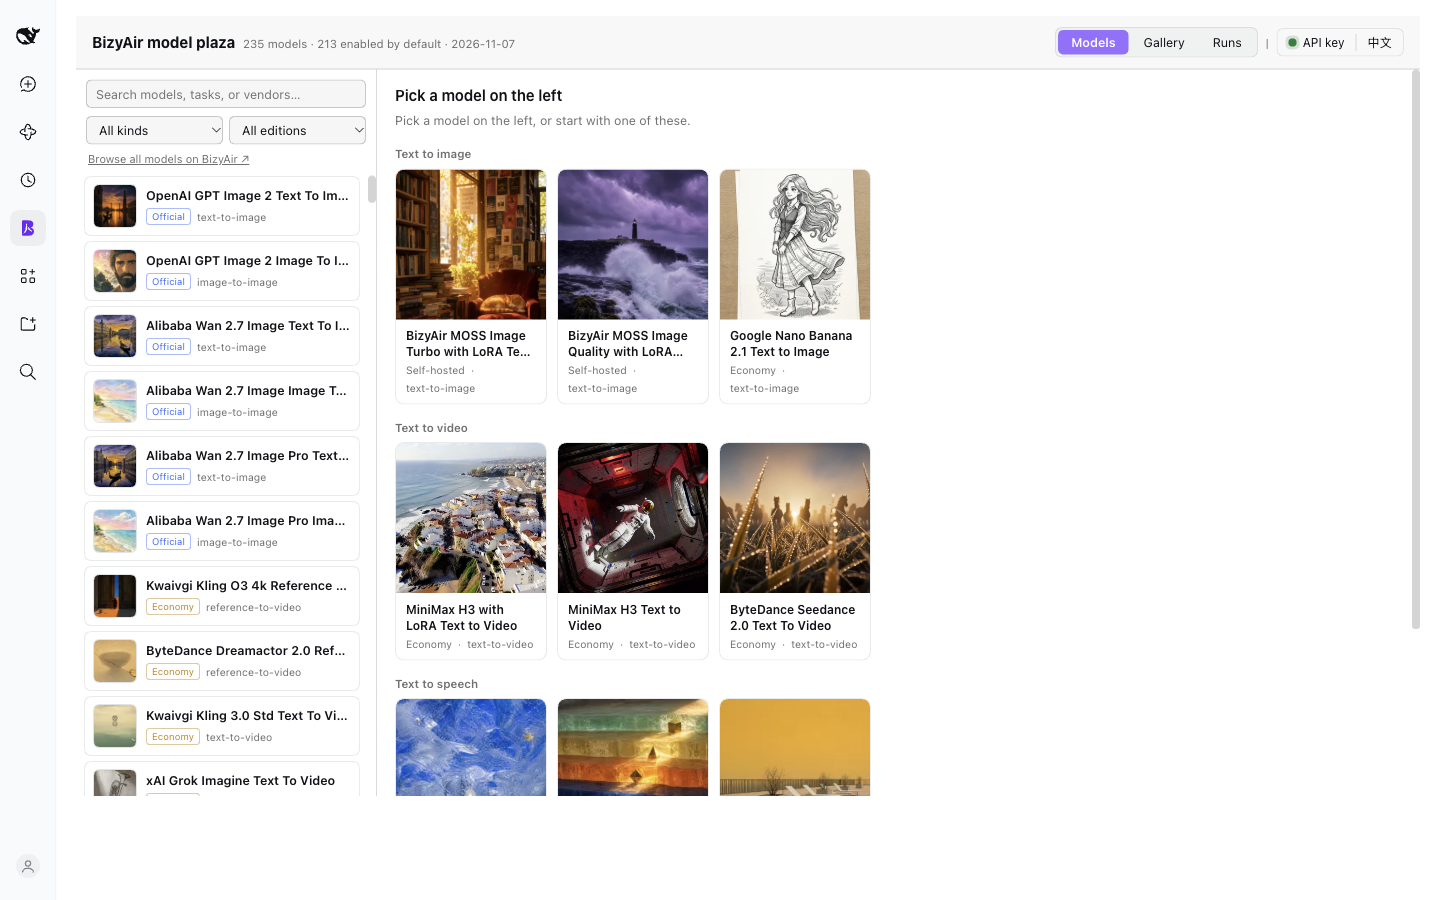
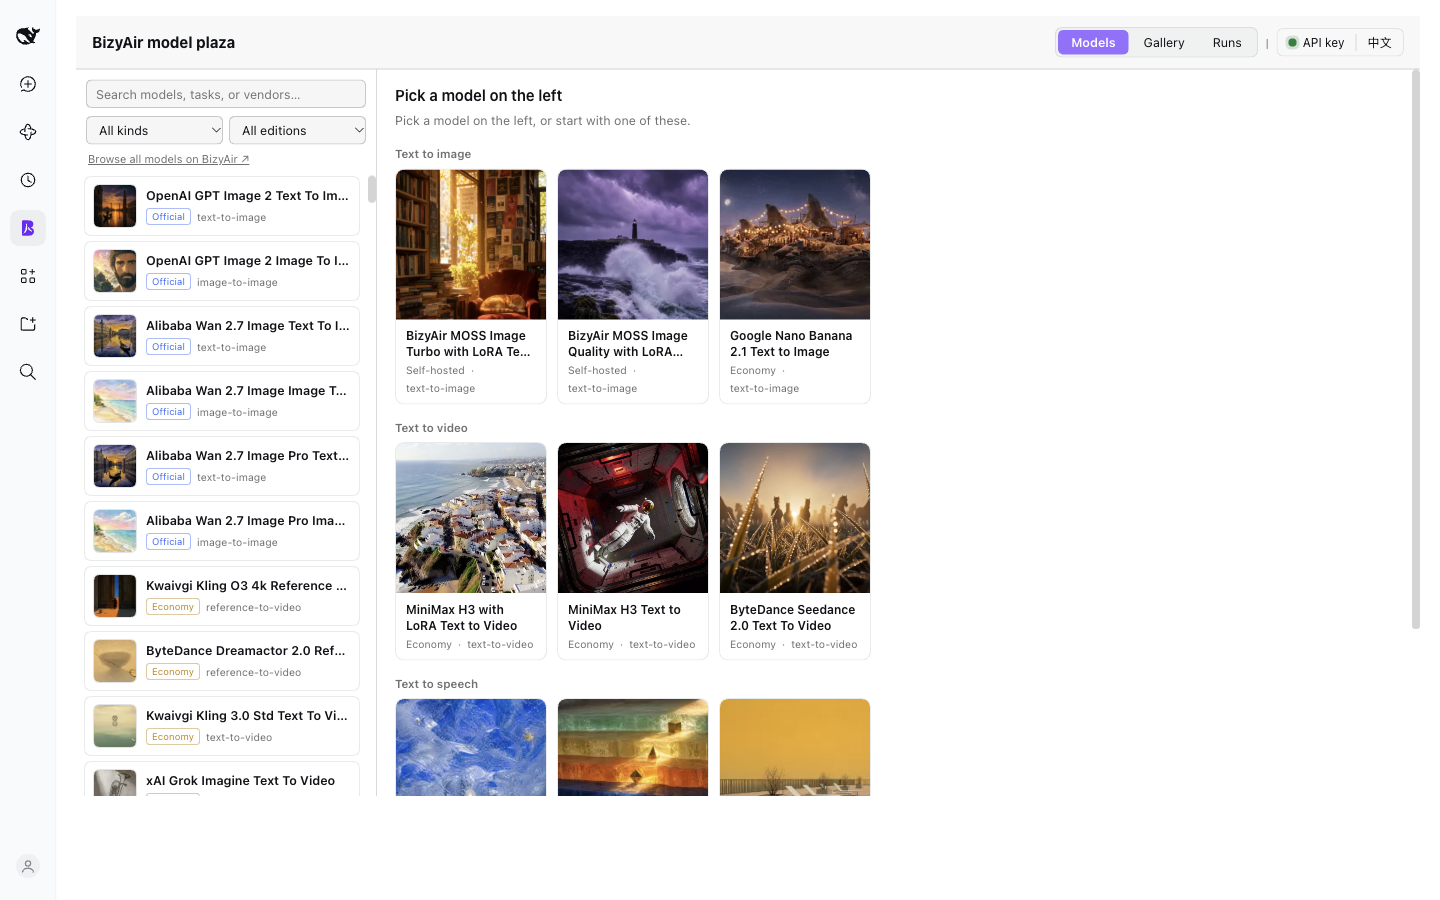
feat: drop the model counts from the panel header
- header shows the title only; no '235 models · 213 enabled by default · date'
- model/params/gallery screenshots retaken without the counts

Changed region(s): [[0.5, 0.1867, 0.625, 0.3733], [0.1875, 0.0311, 0.3438, 0.0622]]

diff --git a/client.js b/client.js
@@ -61,7 +61,6 @@ window.__ModuleLoader__.load({
         loadMore: '加载更多', statusAll: '全部状态',
         loadingFeatured: '正在加载最新热门模型…', featuredFailed: '热门模型加载失败',
         featuredPriceNote: '按价格从低到高推荐；单价为单次/每秒价格，以 BizyAir 账单为准。',
-        modelsEnabled: '默认启用 {n}',
         upgradedTo: '已升级到 {v}',
         upgradeApplied: '已生效', upgradeNeedsRestart: '需要重启 DSH',
         upgradeRunning: '进行中', upgradeUnavailable: '未完成',
@@ -133,7 +132,6 @@ window.__ModuleLoader__.load({
         loadMore: 'Load more', statusAll: 'All statuses',
         loadingFeatured: 'Loading the newest popular models…', featuredFailed: 'Failed to load featured models',
         featuredPriceNote: 'Recommended cheapest first; unit prices are per call or per second and follow your BizyAir billing.',
-        modelsEnabled: '{n} enabled by default',
         upgradedTo: 'Upgraded to {v}',
         upgradeApplied: 'Done', upgradeNeedsRestart: 'Restart DSH to finish',
         upgradeRunning: 'In progress', upgradeUnavailable: 'Not completed',
@@ -1851,9 +1849,7 @@ window.__ModuleLoader__.load({
         },
       },
       h('div', { style: { display: 'flex', alignItems: 'baseline', gap: 8, flexWrap: 'wrap' } },
-        h('div', { style: { fontSize: 15, fontWeight: 700 } }, t.title),
-        catalog ? h('span', { style: { color: theme.muted, fontSize: 11.5 } },
-          `${catalog.stats?.models ?? catalog.models.length} ${t.models} · ${t.modelsEnabled.replace('{n}', catalog.models.length)} · ${catalog.generatedAt?.slice(0, 10) ?? ''}`) : null),
+        h('div', { style: { fontSize: 15, fontWeight: 700 } }, t.title)),
       h('div', { style: { marginLeft: 'auto', display: 'flex', alignItems: 'center', gap: 8, flexWrap: 'wrap' } },
         segmented,
         h('span', { style: { color: theme.muted, fontSize: 11 } }, '|'),
